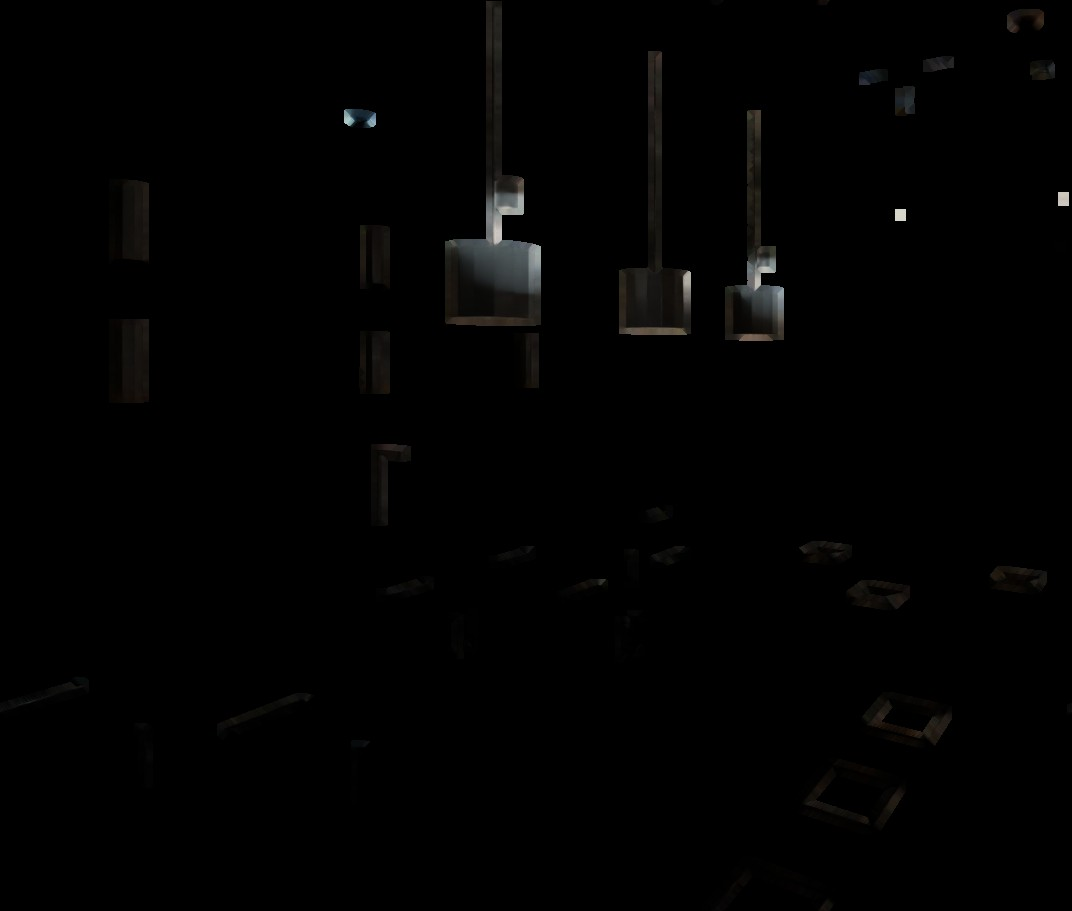
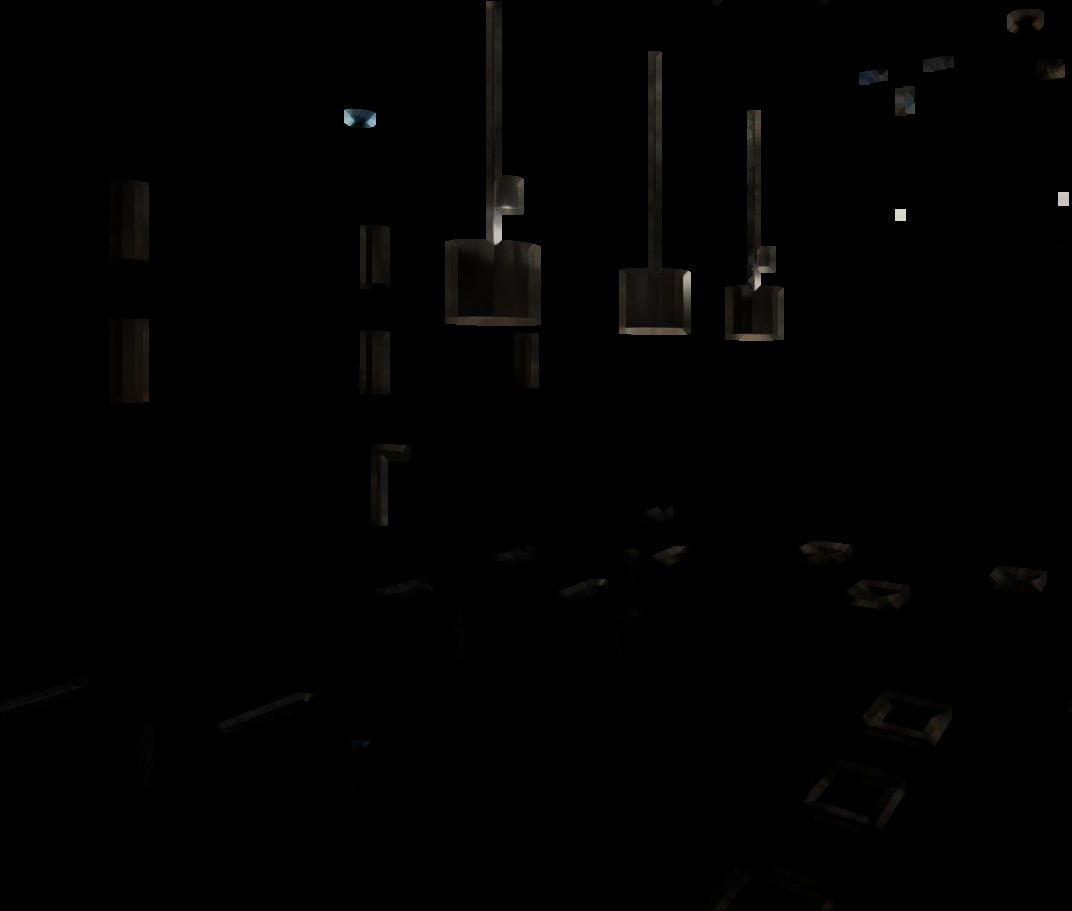
The Lookout 3500 2.0: bar
The Lookout 3500 2.0 page: a picture redone.

- Lower-level bar re-rendered: crown molding as a choice, clear glass at the sauna and gym; bar cabinets, counters, hardware and wall paint as before.

Claude-Session: https://claude.ai/code/session_01LcUu1yMTHs7qUW5E51HSvp

diff --git a/lookout/site.js b/lookout/site.js
@@ -1,1 +1,1 @@
-window.SJ={"name":"The Lookout 3500 2.0","slug":"the-lookout-3500-2","tag":"One-and-a-half-story plan","sub":"Four bedrooms and three and a half baths in 3,760 square feet, with the primary suite on the main level, a lookout room on the roof and a three-car garage.","stats":[["3,760","sq ft finished"],["4","bedrooms"],["3.5","baths"],["3","car garage"],["Main-level","primary suite"],["14 x 16","lookout room"]],"hero":{"day":"img/hero-day.jpg","night":"img/hero-dusk.jpg"},"views":[{"id":"hero","name":"Front","kind":"ext","keys":["fas","fd","fdc","g","gdc","lk","prf","pst","rof","sid","trm","win"]},{"id":"yard","name":"Back yard","kind":"ext","keys":["fas","g","lk","pl","prf","pst","rof","sid","trm","win"]},{"id":"great","name":"Living room","kind":"int","keys":["bi","clg","cr","flr","fp","hwc","idc","ids","wal","win"]},{"id":"kitchen","name":"Kitchen","kind":"int","keys":["bsp","cab","cr","ctr","flr","hwc","isl","wal","win"]},{"id":"dining","name":"Dining room","kind":"int","keys":["cr","flr","wal","win"]},{"id":"foyer","name":"Foyer","kind":"int","keys":["cr","fd","fdc","flr","hwc","sf","sr","wal","win"]},{"id":"primary","name":"Primary bedroom","kind":"int","keys":["cr","flr","wal","win"]},{"id":"bath","name":"Primary bath","kind":"int","keys":["btl","cr","ctr","hwc","shw","vcab","wal","win"],"scope":"pb"},{"id":"office","name":"Loft over the primary closet","kind":"int","keys":["cr","flr","hwc","lof","sf","sr","wal","win"]},{"id":"loft","name":"Upstairs loft","kind":"int","keys":["cr","wal","win"]},{"id":"lookout","name":"Lookout room","kind":"int","keys":["cr","flr","sf","sr","wal","win"],"veil":{"when":{"lk":"0"},"keys":["cr","flr","sf","sr","wal","win"],"note":"Shows in this picture when the lookout room is chosen"}},{"id":"bed2","name":"Bedroom 2","kind":"int","keys":["cpt","cr","uf","wal","win"]},{"id":"bed4","name":"Bedroom 4","kind":"int","keys":["cpt","cr","hwc","idc","ids","uf","wal","win"]},{"id":"bath3","name":"Bath 3","kind":"int","keys":["btl","cr","ctr","hwc","idc","ids","shw","vcab","wal"],"scope":"b3"},{"id":"lounge","name":"Lower level lounge","kind":"int","keys":["b","cab","cr","ctr","hwc","idc","ids","isl","wal"],"veil":{"when":{"b":"u"},"keys":["cab","cr","ctr","hwc","idc","ids","isl","wal"],"note":"Shows in this picture once the lower level is finished"}},{"id":"bar","name":"Lower level bar","kind":"int","keys":["b","ctr","hwc","isl","wal"],"veil":{"when":{"b":"u"},"keys":["ctr","hwc","isl","wal"],"note":"Shows in this picture once the lower level is finished"}}],"baths":[{"id":"pb","name":"Primary bath","keys":["vcab","ctr","shw","btl","hwc","wal"]},{"id":"b3","name":"Bath 3","keys":["vcab","ctr","shw","btl","hwc","wal"]}],"bathkeys":["vcab","ctr","shw","btl","hwc","wal"],"opts":[{"key":"lk","name":"Lookout room","cat":"ext","ch":[{"id":"1","name":"Lookout room on the roof (as drawn)"},{"id":"0","name":"No lookout"}],"note":"The lookout room sits on the roof, 14 x 16 ft with windows all around, reached by its own stair."},{"key":"g","name":"Garage entry","cat":"ext","ch":[{"id":"f","name":"Front entry (as drawn)"},{"id":"s","name":"Side entry, with a motor court"}],"note":"Side entry: the garage wing is re-proportioned and its doors face a motor court at the side; windows take their place on the front."},{"key":"pl","name":"Pool","cat":"ext","ch":[{"id":"n","name":"No pool (as drawn)"},{"id":"1","name":"Lap pool, 10 x 45 ft"},{"id":"2","name":"Plunge pool with a raised spa"},{"id":"3","name":"Courtyard pool with a shade pavilion"}],"note":"The pools sit behind the covered deck, on a paved terrace one step above the lawn."},{"key":"sid","name":"Siding colour","cat":"ext","ch":[{"id":"white","name":"Chantilly White","css":"#F1EFE8"},{"id":"cream","name":"Warm Cream","css":"#E6DCC6"},{"id":"greige","name":"Pebble Greige","css":"#B9B2A3"},{"id":"sage","name":"Sage","css":"#8E9A86"},{"id":"blue","name":"Harbor Blue","css":"#5E768A"},{"id":"navy","name":"Midnight Navy","css":"#28364A"},{"id":"iron","name":"Iron Gray","css":"#45484A"},{"id":"black","name":"Tricorn Black","css":"#222325"}]},{"key":"trm","name":"Trim and corner boards","cat":"ext","ch":[{"id":"white","name":"White","css":"#F4F2EC"},{"id":"cream","name":"Cream","css":"#E9E1CF"},{"id":"black","name":"Black","css":"#1E1F21"},{"id":"bronze","name":"Dark Bronze","css":"#3A322B"}]},{"key":"rof","name":"Roof shingles","cat":"ext","ch":[{"id":"char","name":"Charcoal","css":"linear-gradient(180deg,#33353A 0 50%,#45474C 50%)"},{"id":"onyx","name":"Onyx Black","css":"linear-gradient(180deg,#1D1E21 0 50%,#2A2B2F 50%)"},{"id":"wood","name":"Weathered Wood","css":"linear-gradient(180deg,#5E554B 0 50%,#7A6F62 50%)"},{"id":"slate","name":"Slate Gray","css":"linear-gradient(180deg,#4D5560 0 50%,#69717C 50%)"},{"id":"brown","name":"Barkwood","css":"linear-gradient(180deg,#41342B 0 50%,#5B4A3D 50%)"}]},{"key":"prf","name":"Porch, lookout and accent roofs","cat":"ext","ch":[{"id":"metal","name":"Black standing seam","css":"repeating-linear-gradient(90deg,#1b1c1f 0 7px,#34363a 7px 9px)"},{"id":"copper","name":"Copper standing seam","css":"repeating-linear-gradient(90deg,#9A5A34 0 7px,#c07c4c 7px 9px)"},{"id":"match","name":"Shingles to match","css":"repeating-linear-gradient(0deg,#2a2b2f 0 5px,#1d1e21 5px 10px)"}]},{"key":"fas","name":"Gutters and downspouts","cat":"ext","ch":[{"id":"white","name":"White","css":"#F2F0EA"},{"id":"black","name":"Black","css":"#1B1C1E"},{"id":"bronze","name":"Dark Bronze","css":"#3A322B"}]},{"key":"win","name":"Window frames","cat":"ext","ch":[{"id":"black","name":"Black","css":"#18191B"},{"id":"white","name":"White","css":"#F0EEE8"},{"id":"bronze","name":"Bronze","css":"#3B3129"},{"id":"clay","name":"Clay","css":"#A89F8E"}]},{"key":"fd","name":"Front door","cat":"ext","ch":[{"id":"g","name":"Double doors, glass over a panel"},{"id":"s","name":"Steel-look glass double doors"},{"id":"c","name":"Craftsman door with sidelights"},{"id":"p","name":"Panelled double doors"}],"note":"Every design comes with a transom over the door; its colour is the next choice."},{"key":"fdc","name":"Front door colour","cat":"ext","ch":[{"id":"wood","name":"Stained Walnut","css":"linear-gradient(135deg,#6A4226,#4A2C18)"},{"id":"black","name":"Black","css":"#161719"},{"id":"navy","name":"Navy","css":"#22324A"},{"id":"red","name":"Barn Red","css":"#6E1F1B"},{"id":"teal","name":"Deep Teal","css":"#1F4A4C"},{"id":"sage","name":"Sage","css":"#7C8A74"},{"id":"white","name":"White","css":"#F0EEE8"}]},{"key":"gdc","name":"Garage door colour","cat":"ext","ch":[{"id":"white","name":"White","css":"#EFEDE7"},{"id":"black","name":"Black","css":"#18191B"},{"id":"iron","name":"Iron Gray","css":"#4A4C4E"},{"id":"bronze","name":"Bronze","css":"#3B3129"},{"id":"wood","name":"Walnut","css":"linear-gradient(135deg,#6A4226,#4A2C18)"}]},{"key":"pst","name":"Porch posts and beams","cat":"ext","ch":[{"id":"cedar","name":"Stained cedar","css":"linear-gradient(135deg,#96663A,#774E28)"},{"id":"white","name":"White","css":"#EFEDE7"},{"id":"black","name":"Black","css":"#1F2022"}]},{"key":"b","name":"Lower level","cat":"int","ch":[{"id":"u","name":"Unfinished (as drawn)"},{"id":"f","name":"Finished"}]},{"key":"lof","name":"Loft over the primary closet","cat":"int","ch":[{"id":"o","name":"Home office"},{"id":"l","name":"Library"},{"id":"r","name":"Retreat"}],"note":"The room over the primary closet, up its own spiral stair: 13 x 11 ft with windows on all four sides."},{"key":"clg","name":"Living room ceiling","cat":"int","ch":[{"id":"c","name":"Coffered, painted"},{"id":"o","name":"Coffered, oak beams"},{"id":"b","name":"Timber beams"},{"id":"t","name":"Tray ceiling"}],"note":"Coffers: nine panels framed by beams, centred on the fireplace, with a ring chandelier in the middle."},{"key":"cr","name":"Crown molding","cat":"int","ch":[{"id":"n","name":"None"},{"id":"c","name":"Classic crown, 5 1/4 in."},{"id":"f","name":"Craftsman, flat with a cap"}],"note":"Runs on every wall that meets a flat ceiling: the main level, upstairs, the lookout room, the loft over the closet and the finished lower level."},{"key":"fp","name":"Fireplace","cat":"int","ch":[{"id":"stone","name":"Stacked stone (as drawn)","css":"repeating-linear-gradient(0deg,#8f887c 0 4px,#6f695f 4px 5px)"},{"id":"white","name":"White stacked stone","css":"repeating-linear-gradient(0deg,#E9E6DF 0 4px,#c4c0b7 4px 5px)"},{"id":"brick","name":"Red brick","css":"repeating-linear-gradient(0deg,#8E4A36 0 5px,#B9B2A6 5px 6px)"},{"id":"wbrick","name":"White painted brick","css":"repeating-linear-gradient(0deg,#EDEAE3 0 5px,#cfcbc2 5px 6px)"},{"id":"slate","name":"Charcoal slate tile","css":"repeating-linear-gradient(90deg,#3B3D40 0 12px,#1F2022 12px 13px)"}]},{"key":"bi","name":"Fireplace built-ins","cat":"int","ch":[{"id":"c","name":"Cabinets with oak tops (as drawn)"},{"id":"s","name":"Cabinets and shelves to the ceiling"},{"id":"n","name":"None"}],"note":"The built-ins stand on both sides of the fireplace."},{"key":"ids","name":"Interior door style","cat":"int","ch":[{"id":"s","name":"Two-panel Shaker"},{"id":"f","name":"Five-panel"},{"id":"c","name":"Craftsman, three-panel"}],"note":"8 ft doors on the main level, 6 ft 8 in. upstairs; every opening is cased, with a cap over the head."},{"key":"idc","name":"Interior doors","cat":"int","ch":[{"id":"white","name":"White","css":"#F2F0EA"},{"id":"black","name":"Black","css":"#1E1F21"},{"id":"grey","name":"Gray","css":"#8F9190"},{"id":"oak","name":"Natural oak","css":"linear-gradient(135deg,#B9905E,#A67C4C)"}]},{"key":"sf","name":"Stair treads and handrails","cat":"int","ch":[{"id":"o","name":"Natural oak (as drawn)","css":"linear-gradient(135deg,#B9905E,#A67C4C)"},{"id":"d","name":"Walnut","css":"linear-gradient(135deg,#6A4A32,#573B27)"},{"id":"k","name":"Ebony","css":"linear-gradient(135deg,#30261F,#211A15)"},{"id":"w","name":"Whitewashed oak","css":"linear-gradient(135deg,#D9CDB8,#C9BCA4)"}]},{"key":"sr","name":"Stair balusters","cat":"int","ch":[{"id":"k","name":"Black iron","css":"#141414"},{"id":"w","name":"White","css":"#EFEDE7"},{"id":"b","name":"Satin brass","css":"#B08A4A"}]},{"key":"flr","name":"Hardwood flooring","cat":"int","ch":[{"id":"oak","name":"Natural Oak Plank","css":"repeating-linear-gradient(90deg,#B08F68 0 9px,#9C7B55 9px 18px)"},{"id":"honey","name":"Honey Oak","css":"repeating-linear-gradient(90deg,#B8834A 0 9px,#A2703C 9px 18px)"},{"id":"grey","name":"Driftwood Gray","css":"repeating-linear-gradient(90deg,#9A9288 0 9px,#857D73 9px 18px)"},{"id":"walnut","name":"Walnut","css":"repeating-linear-gradient(90deg,#6A4A32 0 9px,#573B27 9px 18px)"},{"id":"white","name":"Whitewashed","css":"repeating-linear-gradient(90deg,#CFC3B0 0 9px,#BFB29E 9px 18px)"}]},{"key":"uf","name":"Bedroom flooring","cat":"int","ch":[{"id":"c","name":"Carpet (as shown)","css":"repeating-linear-gradient(45deg,#C9C0AE 0 3px,#BDB4A2 3px 6px)"},{"id":"oak","name":"Natural Oak Plank","css":"repeating-linear-gradient(90deg,#B08F68 0 9px,#9C7B55 9px 18px)"},{"id":"honey","name":"Honey Oak","css":"repeating-linear-gradient(90deg,#B8834A 0 9px,#A2703C 9px 18px)"},{"id":"grey","name":"Driftwood Gray","css":"repeating-linear-gradient(90deg,#9A9288 0 9px,#857D73 9px 18px)"},{"id":"walnut","name":"Walnut","css":"repeating-linear-gradient(90deg,#6A4A32 0 9px,#573B27 9px 18px)"},{"id":"white","name":"Whitewashed","css":"repeating-linear-gradient(90deg,#CFC3B0 0 9px,#BFB29E 9px 18px)"}]},{"key":"cpt","name":"Carpet","cat":"int","ch":[{"id":"oat","name":"Oatmeal","css":"#C9C0AE"},{"id":"grey","name":"Silver","css":"#B5B3AE"},{"id":"taupe","name":"Taupe","css":"#A39685"}],"only":{"uf":"c"}},{"key":"wal","name":"Wall paint","cat":"int","ch":[{"id":"alab","name":"Alabaster","css":"#EDEAE0"},{"id":"grey","name":"Agreeable Gray","css":"#D1CBC1"},{"id":"greige","name":"Accessible Beige","css":"#D1C7B8"},{"id":"blue","name":"Sea Salt","css":"#CDD2CA"},{"id":"white","name":"Pure White","css":"#F2F0EB"}],"bname":"Wall paint"},{"key":"cab","name":"Kitchen cabinets","cat":"int","ch":[{"id":"white","name":"White Shaker","css":"#EFEDE7"},{"id":"grey","name":"Dove Gray","css":"#A9ABA8"},{"id":"sage","name":"Sage","css":"#8A967F"},{"id":"navy","name":"Navy","css":"#27364B"},{"id":"black","name":"Black","css":"#1F2022"},{"id":"oak","name":"Natural Oak","css":"linear-gradient(135deg,#B9905E,#A67C4C)"}]},{"key":"isl","name":"Island and range hood","cat":"int","ch":[{"id":"navy","name":"Navy","css":"#27364B"},{"id":"white","name":"White","css":"#EFEDE7"},{"id":"oak","name":"Natural Oak","css":"linear-gradient(135deg,#B9905E,#A67C4C)"},{"id":"black","name":"Black","css":"#1F2022"},{"id":"sage","name":"Sage","css":"#8A967F"}]},{"key":"ctr","name":"Countertops","cat":"int","ch":[{"id":"white","name":"White Quartz","css":"#EEEBE4"},{"id":"marble","name":"Marble-look Quartz","css":"linear-gradient(120deg,#ECE9E3 0 40%,#b9b6ae 44%,#ECE9E3 48% 70%,#c9c6be 74%,#ECE9E3 78%)"},{"id":"black","name":"Black Granite","css":"linear-gradient(120deg,#17181A 0 55%,#4a4a48 60%,#17181A 65%)"},{"id":"grey","name":"Concrete Gray","css":"#9A9894"}],"bname":"Vanity tops"},{"key":"bsp","name":"Backsplash","cat":"int","ch":[{"id":"slab","name":"Marble slab","css":"linear-gradient(120deg,#ECE9E3 0 40%,#b9b6ae 44%,#ECE9E3 48% 70%,#c9c6be 74%,#ECE9E3 78%)"},{"id":"subway","name":"White Subway","css":"repeating-linear-gradient(0deg,#F0EEE8 0 8px,#cfccc4 8px 9px)"},{"id":"green","name":"Sage Zellige","css":"repeating-linear-gradient(0deg,#8FA08A 0 8px,#6f806a 8px 9px)"},{"id":"grey","name":"Gray Subway","css":"repeating-linear-gradient(0deg,#B4B6B4 0 8px,#8f918f 8px 9px)"},{"id":"black","name":"Black Subway","css":"repeating-linear-gradient(0deg,#232426 0 8px,#6A6A68 8px 9px)"}]},{"key":"vcab","name":"Bathroom vanities","cat":"int","ch":[{"id":"oak","name":"Natural oak","css":"linear-gradient(135deg,#B9905E,#A67C4C)"},{"id":"white","name":"White","css":"#EFEDE7"},{"id":"navy","name":"Navy","css":"#27364B"},{"id":"sage","name":"Sage","css":"#8A967F"},{"id":"black","name":"Black","css":"#1F2022"},{"id":"walnut","name":"Walnut","css":"linear-gradient(135deg,#6A4A32,#573B27)"}],"bname":"Vanity cabinets","bathonly":1},{"key":"shw","name":"Shower walls","cat":"int","ch":[{"id":"slab","name":"Marble slab","css":"linear-gradient(120deg,#ECE9E3 0 40%,#b9b6ae 44%,#ECE9E3 48% 70%,#c9c6be 74%,#ECE9E3 78%)"},{"id":"subway","name":"White subway tile","css":"repeating-linear-gradient(0deg,#F0EEE8 0 8px,#cfccc4 8px 9px)"},{"id":"zel","name":"Sage zellige","css":"repeating-linear-gradient(0deg,#8FA08A 0 8px,#6f806a 8px 9px)"},{"id":"slate","name":"Charcoal slate","css":"repeating-linear-gradient(90deg,#3B3D40 0 14px,#1F2022 14px 15px)"},{"id":"trav","name":"Warm limestone","css":"repeating-linear-gradient(90deg,#D9CDB8 0 14px,#B8AC96 14px 15px)"}],"note":"The primary bath's wet room, and the wall behind the tub in each upstairs bath.","bname":"Shower walls","bathonly":1},{"key":"btl","name":"Bath floor tile","cat":"int","ch":[{"id":"w","name":"White porcelain","css":"repeating-linear-gradient(90deg,#EDEBE6 0 12px,#B9B6AE 12px 13px)"},{"id":"g","name":"Warm gray","css":"repeating-linear-gradient(90deg,#B9B2A6 0 12px,#8C867B 12px 13px)"},{"id":"m","name":"Marble look","css":"linear-gradient(120deg,#ECEAE6 0 40%,#c4c1bb 46%,#ECEAE6 52%)"},{"id":"c","name":"Charcoal slate","css":"repeating-linear-gradient(90deg,#4A4C4F 0 12px,#2C2D2F 12px 13px)"}],"bname":"Floor tile","bathonly":1},{"key":"hwc","name":"Hardware and faucets","cat":"int","ch":[{"id":"brass","name":"Satin Brass","css":"#B08A4A"},{"id":"black","name":"Matte Black","css":"#101011"},{"id":"nickel","name":"Satin Nickel","css":"#9A9A98"}],"bname":"Faucets and hardware"}],"defaults":{"sid":"white","trm":"white","fas":"white","win":"black","fdc":"wood","gdc":"white","rof":"char","prf":"metal","lk":"1","g":"f","b":"u","pl":"n","fd":"g","pst":"cedar","clg":"c","cr":"n","fp":"stone","bi":"c","sf":"o","sr":"k","idc":"white","ids":"s","lof":"o","hwc":"brass","wal":"alab","cab":"white","isl":"navy","ctr":"marble","bsp":"slab","vcab":"oak","shw":"slab","btl":"w","flr":"oak","cpt":"oat","uf":"c"},"gallery":[],"looks":[{"cat":"ext","name":"Modern farmhouse (as drawn)","set":{}},{"cat":"ext","name":"Midnight and copper","set":{"sid":"navy","prf":"copper","gdc":"wood","rof":"onyx"}},{"cat":"ext","name":"Sage cottage","set":{"sid":"sage","trm":"cream","fas":"bronze","win":"white","rof":"wood","fdc":"navy","fd":"c"}},{"cat":"ext","name":"Charcoal modern","set":{"sid":"iron","trm":"black","fas":"black","rof":"onyx","gdc":"black","fdc":"black","fd":"s"}},{"cat":"ext","name":"Coastal blue","set":{"sid":"blue","win":"white","rof":"slate","fdc":"navy"}},{"cat":"ext","name":"Warm greige","set":{"sid":"greige","trm":"cream","fas":"bronze","win":"bronze","rof":"brown","gdc":"bronze","fd":"p"}},{"cat":"ext","name":"Black barn","set":{"sid":"black","trm":"black","fas":"black","gdc":"wood","prf":"copper","fd":"p"}},{"cat":"int","name":"Light and warm (as shown)","set":{}},{"cat":"int","name":"Warm oak","set":{"isl":"oak","ctr":"marble","flr":"honey","wal":"greige","clg":"o","cr":"f","ids":"c"}},{"cat":"int","name":"Deep and moody","set":{"cab":"navy","bsp":"grey","flr":"walnut","wal":"grey","idc":"black","clg":"b","cr":"c","vcab":"navy","shw":"slate","lof":"l"}},{"cat":"int","name":"Scandinavian","set":{"isl":"white","flr":"white","wal":"white","hwc":"black","clg":"t","ids":"f","vcab":"white","shw":"subway"}},{"cat":"int","name":"Sage kitchen","set":{"cab":"sage","isl":"oak","bsp":"green","vcab":"sage","shw":"zel","lof":"r"}},{"cat":"int","name":"Black and white","set":{"cab":"black","isl":"white","ctr":"marble","flr":"grey","wal":"white","hwc":"nickel","idc":"black","ids":"c","cr":"c","vcab":"black","shw":"subway"}},{"cat":"int","name":"Everything added","set":{"cr":"c","clg":"o","bi":"s","ids":"c","lof":"l","b":"f"}}],"plan_lead":"Each level seen from straight above, with everything over it taken away. Furniture is illustrative.","plans":[{"id":"main_f","name":"Main level","note":"2,144 sq ft: living, dining and kitchen in the core, the primary suite in its own wing, a three-car garage","svg":"<img src=\"img/plan-main_f.jpg\" alt=\"Main level, seen from above with the levels over it taken away\" style=\"width:100%;height:auto;display:block;border-radius:10px\">"},{"id":"main_s","name":"Main level, side-entry garage","note":"The same rooms; the garage wing is re-proportioned and entered from a motor court at the side","svg":"<img src=\"img/plan-main_s.jpg\" alt=\"Main level, side-entry garage, seen from above with the levels over it taken away\" style=\"width:100%;height:auto;display:block;border-radius:10px\">"},{"id":"upper","name":"Upstairs","note":"1,224 sq ft: three bedrooms, two baths, the loft and a laundry; the office loft sits over the primary closet","svg":"<img src=\"img/plan-upper.jpg\" alt=\"Upstairs, seen from above with the levels over it taken away\" style=\"width:100%;height:auto;display:block;border-radius:10px\">"},{"id":"look","name":"Lookout","note":"224 sq ft: the lookout room on the roof, windows on all four sides","svg":"<img src=\"img/plan-look.jpg\" alt=\"Lookout, seen from above with the levels over it taken away\" style=\"width:100%;height:auto;display:block;border-radius:10px\">"},{"id":"bsmt_u","name":"Lower level","note":"Unfinished, as drawn: a safe room, mechanical space and rough-ins for a bath and a wet bar","svg":"<img src=\"img/plan-bsmt_u.jpg\" alt=\"Lower level, seen from above with the levels over it taken away\" style=\"width:100%;height:auto;display:block;border-radius:10px\">"},{"id":"bsmt_f","name":"Lower level, finished","note":"Lounge, bar, gym, bath and sauna, with the safe room, storage and mechanical space","svg":"<img src=\"img/plan-bsmt_f.jpg\" alt=\"Lower level, finished, seen from above with the levels over it taken away\" style=\"width:100%;height:auto;display:block;border-radius:10px\">"}],"lot":null,"specs":[{"h":"The home","items":["3,760 sq ft finished: 2,144 on the main level, 1,224 upstairs, a 168 sq ft office loft and the 224 sq ft lookout room","Four bedrooms and three and a half baths; the primary suite is on the main level in its own wing","The primary suite: a 20 x 20 bedroom with a door to the covered deck, a spa bath and a walk-in closet, about 800 sq ft in all","Three-car garage in a wing of its own, front entry or side entry","Core 34 x 36 ft, two stories; the garage wing 32 x 24 ft and the primary wing 20 x 46 ft are one story"]},{"h":"Rooms","items":["Main level: foyer, dining room, living room with a fireplace and a 12 ft slider to the covered deck, kitchen with a prep kitchen and pantry, mudroom, powder room, laundry","Upstairs: three bedrooms, two baths, a loft, a second laundry","An office loft over the primary closet, reached by its own spiral stair","The lookout room: 14 x 16 ft on the roof, windows on all four sides"]},{"h":"Heights and roof","items":["10 ft ceilings on the main level","Gable roofs with standing-seam accents over the porch, the lookout and the garage doors","Covered 16 x 14 ft deck off the living room; covered front porch on timber posts"]},{"h":"Inside finish","items":["Living room ceiling: nine coffers centred on the fireplace with a ring chandelier, painted or in oak; timber beams or a tray ceiling instead","Doors: 8 ft on the main level and 6 ft 8 in. upstairs, in three panel styles, every opening cased with a cap over the head","Crown molding as a choice on every level, classic or craftsman","Front door in four designs under a transom: glass over a panel, steel-look glass, craftsman with sidelights, or panelled","Baths: vanity cabinets and shower walls chosen apart from the kitchen","The loft over the primary closet as a home office, a library or a retreat"]},{"h":"Outside","items":["Board-and-batten siding with trim boards at corners and openings","Black-framed windows with grids","A full basement under the core"]}],"foot":["The pictures and the design studio on this page are computer renderings of a 3D model of the plan. Furniture, planting and the land around the house are illustrative; the plan is not drawn on a particular lot.","Finishes offered in the design studio are examples for planning, not a builder's price list. A builder's plan set and contract govern."],"tour":null,"model3d":{"src":"3d/","poster":"img/hero-day.jpg"}};
+window.SJ={"name":"The Lookout 3500 2.0","slug":"the-lookout-3500-2","tag":"One-and-a-half-story plan","sub":"Four bedrooms and three and a half baths in 3,760 square feet, with the primary suite on the main level, a lookout room on the roof and a three-car garage.","stats":[["3,760","sq ft finished"],["4","bedrooms"],["3.5","baths"],["3","car garage"],["Main-level","primary suite"],["14 x 16","lookout room"]],"hero":{"day":"img/hero-day.jpg","night":"img/hero-dusk.jpg"},"views":[{"id":"hero","name":"Front","kind":"ext","keys":["fas","fd","fdc","g","gdc","lk","prf","pst","rof","sid","trm","win"]},{"id":"yard","name":"Back yard","kind":"ext","keys":["fas","g","lk","pl","prf","pst","rof","sid","trm","win"]},{"id":"great","name":"Living room","kind":"int","keys":["bi","clg","cr","flr","fp","hwc","idc","ids","wal","win"]},{"id":"kitchen","name":"Kitchen","kind":"int","keys":["bsp","cab","cr","ctr","flr","hwc","isl","wal","win"]},{"id":"dining","name":"Dining room","kind":"int","keys":["cr","flr","wal","win"]},{"id":"foyer","name":"Foyer","kind":"int","keys":["cr","fd","fdc","flr","hwc","sf","sr","wal","win"]},{"id":"primary","name":"Primary bedroom","kind":"int","keys":["cr","flr","wal","win"]},{"id":"bath","name":"Primary bath","kind":"int","keys":["btl","cr","ctr","hwc","shw","vcab","wal","win"],"scope":"pb"},{"id":"office","name":"Loft over the primary closet","kind":"int","keys":["cr","flr","hwc","lof","sf","sr","wal","win"]},{"id":"loft","name":"Upstairs loft","kind":"int","keys":["cr","wal","win"]},{"id":"lookout","name":"Lookout room","kind":"int","keys":["cr","flr","sf","sr","wal","win"],"veil":{"when":{"lk":"0"},"keys":["cr","flr","sf","sr","wal","win"],"note":"Shows in this picture when the lookout room is chosen"}},{"id":"bed2","name":"Bedroom 2","kind":"int","keys":["cpt","cr","uf","wal","win"]},{"id":"bed4","name":"Bedroom 4","kind":"int","keys":["cpt","cr","hwc","idc","ids","uf","wal","win"]},{"id":"bath3","name":"Bath 3","kind":"int","keys":["btl","cr","ctr","hwc","idc","ids","shw","vcab","wal"],"scope":"b3"},{"id":"lounge","name":"Lower level lounge","kind":"int","keys":["b","cab","cr","ctr","hwc","idc","ids","isl","wal"],"veil":{"when":{"b":"u"},"keys":["cab","cr","ctr","hwc","idc","ids","isl","wal"],"note":"Shows in this picture once the lower level is finished"}},{"id":"bar","name":"Lower level bar","kind":"int","keys":["b","cr","ctr","hwc","isl","wal"],"veil":{"when":{"b":"u"},"keys":["cr","ctr","hwc","isl","wal"],"note":"Shows in this picture once the lower level is finished"}}],"baths":[{"id":"pb","name":"Primary bath","keys":["vcab","ctr","shw","btl","hwc","wal"]},{"id":"b3","name":"Bath 3","keys":["vcab","ctr","shw","btl","hwc","wal"]}],"bathkeys":["vcab","ctr","shw","btl","hwc","wal"],"opts":[{"key":"lk","name":"Lookout room","cat":"ext","ch":[{"id":"1","name":"Lookout room on the roof (as drawn)"},{"id":"0","name":"No lookout"}],"note":"The lookout room sits on the roof, 14 x 16 ft with windows all around, reached by its own stair."},{"key":"g","name":"Garage entry","cat":"ext","ch":[{"id":"f","name":"Front entry (as drawn)"},{"id":"s","name":"Side entry, with a motor court"}],"note":"Side entry: the garage wing is re-proportioned and its doors face a motor court at the side; windows take their place on the front."},{"key":"pl","name":"Pool","cat":"ext","ch":[{"id":"n","name":"No pool (as drawn)"},{"id":"1","name":"Lap pool, 10 x 45 ft"},{"id":"2","name":"Plunge pool with a raised spa"},{"id":"3","name":"Courtyard pool with a shade pavilion"}],"note":"The pools sit behind the covered deck, on a paved terrace one step above the lawn."},{"key":"sid","name":"Siding colour","cat":"ext","ch":[{"id":"white","name":"Chantilly White","css":"#F1EFE8"},{"id":"cream","name":"Warm Cream","css":"#E6DCC6"},{"id":"greige","name":"Pebble Greige","css":"#B9B2A3"},{"id":"sage","name":"Sage","css":"#8E9A86"},{"id":"blue","name":"Harbor Blue","css":"#5E768A"},{"id":"navy","name":"Midnight Navy","css":"#28364A"},{"id":"iron","name":"Iron Gray","css":"#45484A"},{"id":"black","name":"Tricorn Black","css":"#222325"}]},{"key":"trm","name":"Trim and corner boards","cat":"ext","ch":[{"id":"white","name":"White","css":"#F4F2EC"},{"id":"cream","name":"Cream","css":"#E9E1CF"},{"id":"black","name":"Black","css":"#1E1F21"},{"id":"bronze","name":"Dark Bronze","css":"#3A322B"}]},{"key":"rof","name":"Roof shingles","cat":"ext","ch":[{"id":"char","name":"Charcoal","css":"linear-gradient(180deg,#33353A 0 50%,#45474C 50%)"},{"id":"onyx","name":"Onyx Black","css":"linear-gradient(180deg,#1D1E21 0 50%,#2A2B2F 50%)"},{"id":"wood","name":"Weathered Wood","css":"linear-gradient(180deg,#5E554B 0 50%,#7A6F62 50%)"},{"id":"slate","name":"Slate Gray","css":"linear-gradient(180deg,#4D5560 0 50%,#69717C 50%)"},{"id":"brown","name":"Barkwood","css":"linear-gradient(180deg,#41342B 0 50%,#5B4A3D 50%)"}]},{"key":"prf","name":"Porch, lookout and accent roofs","cat":"ext","ch":[{"id":"metal","name":"Black standing seam","css":"repeating-linear-gradient(90deg,#1b1c1f 0 7px,#34363a 7px 9px)"},{"id":"copper","name":"Copper standing seam","css":"repeating-linear-gradient(90deg,#9A5A34 0 7px,#c07c4c 7px 9px)"},{"id":"match","name":"Shingles to match","css":"repeating-linear-gradient(0deg,#2a2b2f 0 5px,#1d1e21 5px 10px)"}]},{"key":"fas","name":"Gutters and downspouts","cat":"ext","ch":[{"id":"white","name":"White","css":"#F2F0EA"},{"id":"black","name":"Black","css":"#1B1C1E"},{"id":"bronze","name":"Dark Bronze","css":"#3A322B"}]},{"key":"win","name":"Window frames","cat":"ext","ch":[{"id":"black","name":"Black","css":"#18191B"},{"id":"white","name":"White","css":"#F0EEE8"},{"id":"bronze","name":"Bronze","css":"#3B3129"},{"id":"clay","name":"Clay","css":"#A89F8E"}]},{"key":"fd","name":"Front door","cat":"ext","ch":[{"id":"g","name":"Double doors, glass over a panel"},{"id":"s","name":"Steel-look glass double doors"},{"id":"c","name":"Craftsman door with sidelights"},{"id":"p","name":"Panelled double doors"}],"note":"Every design comes with a transom over the door; its colour is the next choice."},{"key":"fdc","name":"Front door colour","cat":"ext","ch":[{"id":"wood","name":"Stained Walnut","css":"linear-gradient(135deg,#6A4226,#4A2C18)"},{"id":"black","name":"Black","css":"#161719"},{"id":"navy","name":"Navy","css":"#22324A"},{"id":"red","name":"Barn Red","css":"#6E1F1B"},{"id":"teal","name":"Deep Teal","css":"#1F4A4C"},{"id":"sage","name":"Sage","css":"#7C8A74"},{"id":"white","name":"White","css":"#F0EEE8"}]},{"key":"gdc","name":"Garage door colour","cat":"ext","ch":[{"id":"white","name":"White","css":"#EFEDE7"},{"id":"black","name":"Black","css":"#18191B"},{"id":"iron","name":"Iron Gray","css":"#4A4C4E"},{"id":"bronze","name":"Bronze","css":"#3B3129"},{"id":"wood","name":"Walnut","css":"linear-gradient(135deg,#6A4226,#4A2C18)"}]},{"key":"pst","name":"Porch posts and beams","cat":"ext","ch":[{"id":"cedar","name":"Stained cedar","css":"linear-gradient(135deg,#96663A,#774E28)"},{"id":"white","name":"White","css":"#EFEDE7"},{"id":"black","name":"Black","css":"#1F2022"}]},{"key":"b","name":"Lower level","cat":"int","ch":[{"id":"u","name":"Unfinished (as drawn)"},{"id":"f","name":"Finished"}]},{"key":"lof","name":"Loft over the primary closet","cat":"int","ch":[{"id":"o","name":"Home office"},{"id":"l","name":"Library"},{"id":"r","name":"Retreat"}],"note":"The room over the primary closet, up its own spiral stair: 13 x 11 ft with windows on all four sides."},{"key":"clg","name":"Living room ceiling","cat":"int","ch":[{"id":"c","name":"Coffered, painted"},{"id":"o","name":"Coffered, oak beams"},{"id":"b","name":"Timber beams"},{"id":"t","name":"Tray ceiling"}],"note":"Coffers: nine panels framed by beams, centred on the fireplace, with a ring chandelier in the middle."},{"key":"cr","name":"Crown molding","cat":"int","ch":[{"id":"n","name":"None"},{"id":"c","name":"Classic crown, 5 1/4 in."},{"id":"f","name":"Craftsman, flat with a cap"}],"note":"Runs on every wall that meets a flat ceiling: the main level, upstairs, the lookout room, the loft over the closet and the finished lower level."},{"key":"fp","name":"Fireplace","cat":"int","ch":[{"id":"stone","name":"Stacked stone (as drawn)","css":"repeating-linear-gradient(0deg,#8f887c 0 4px,#6f695f 4px 5px)"},{"id":"white","name":"White stacked stone","css":"repeating-linear-gradient(0deg,#E9E6DF 0 4px,#c4c0b7 4px 5px)"},{"id":"brick","name":"Red brick","css":"repeating-linear-gradient(0deg,#8E4A36 0 5px,#B9B2A6 5px 6px)"},{"id":"wbrick","name":"White painted brick","css":"repeating-linear-gradient(0deg,#EDEAE3 0 5px,#cfcbc2 5px 6px)"},{"id":"slate","name":"Charcoal slate tile","css":"repeating-linear-gradient(90deg,#3B3D40 0 12px,#1F2022 12px 13px)"}]},{"key":"bi","name":"Fireplace built-ins","cat":"int","ch":[{"id":"c","name":"Cabinets with oak tops (as drawn)"},{"id":"s","name":"Cabinets and shelves to the ceiling"},{"id":"n","name":"None"}],"note":"The built-ins stand on both sides of the fireplace."},{"key":"ids","name":"Interior door style","cat":"int","ch":[{"id":"s","name":"Two-panel Shaker"},{"id":"f","name":"Five-panel"},{"id":"c","name":"Craftsman, three-panel"}],"note":"8 ft doors on the main level, 6 ft 8 in. upstairs; every opening is cased, with a cap over the head."},{"key":"idc","name":"Interior doors","cat":"int","ch":[{"id":"white","name":"White","css":"#F2F0EA"},{"id":"black","name":"Black","css":"#1E1F21"},{"id":"grey","name":"Gray","css":"#8F9190"},{"id":"oak","name":"Natural oak","css":"linear-gradient(135deg,#B9905E,#A67C4C)"}]},{"key":"sf","name":"Stair treads and handrails","cat":"int","ch":[{"id":"o","name":"Natural oak (as drawn)","css":"linear-gradient(135deg,#B9905E,#A67C4C)"},{"id":"d","name":"Walnut","css":"linear-gradient(135deg,#6A4A32,#573B27)"},{"id":"k","name":"Ebony","css":"linear-gradient(135deg,#30261F,#211A15)"},{"id":"w","name":"Whitewashed oak","css":"linear-gradient(135deg,#D9CDB8,#C9BCA4)"}]},{"key":"sr","name":"Stair balusters","cat":"int","ch":[{"id":"k","name":"Black iron","css":"#141414"},{"id":"w","name":"White","css":"#EFEDE7"},{"id":"b","name":"Satin brass","css":"#B08A4A"}]},{"key":"flr","name":"Hardwood flooring","cat":"int","ch":[{"id":"oak","name":"Natural Oak Plank","css":"repeating-linear-gradient(90deg,#B08F68 0 9px,#9C7B55 9px 18px)"},{"id":"honey","name":"Honey Oak","css":"repeating-linear-gradient(90deg,#B8834A 0 9px,#A2703C 9px 18px)"},{"id":"grey","name":"Driftwood Gray","css":"repeating-linear-gradient(90deg,#9A9288 0 9px,#857D73 9px 18px)"},{"id":"walnut","name":"Walnut","css":"repeating-linear-gradient(90deg,#6A4A32 0 9px,#573B27 9px 18px)"},{"id":"white","name":"Whitewashed","css":"repeating-linear-gradient(90deg,#CFC3B0 0 9px,#BFB29E 9px 18px)"}]},{"key":"uf","name":"Bedroom flooring","cat":"int","ch":[{"id":"c","name":"Carpet (as shown)","css":"repeating-linear-gradient(45deg,#C9C0AE 0 3px,#BDB4A2 3px 6px)"},{"id":"oak","name":"Natural Oak Plank","css":"repeating-linear-gradient(90deg,#B08F68 0 9px,#9C7B55 9px 18px)"},{"id":"honey","name":"Honey Oak","css":"repeating-linear-gradient(90deg,#B8834A 0 9px,#A2703C 9px 18px)"},{"id":"grey","name":"Driftwood Gray","css":"repeating-linear-gradient(90deg,#9A9288 0 9px,#857D73 9px 18px)"},{"id":"walnut","name":"Walnut","css":"repeating-linear-gradient(90deg,#6A4A32 0 9px,#573B27 9px 18px)"},{"id":"white","name":"Whitewashed","css":"repeating-linear-gradient(90deg,#CFC3B0 0 9px,#BFB29E 9px 18px)"}]},{"key":"cpt","name":"Carpet","cat":"int","ch":[{"id":"oat","name":"Oatmeal","css":"#C9C0AE"},{"id":"grey","name":"Silver","css":"#B5B3AE"},{"id":"taupe","name":"Taupe","css":"#A39685"}],"only":{"uf":"c"}},{"key":"wal","name":"Wall paint","cat":"int","ch":[{"id":"alab","name":"Alabaster","css":"#EDEAE0"},{"id":"grey","name":"Agreeable Gray","css":"#D1CBC1"},{"id":"greige","name":"Accessible Beige","css":"#D1C7B8"},{"id":"blue","name":"Sea Salt","css":"#CDD2CA"},{"id":"white","name":"Pure White","css":"#F2F0EB"}],"bname":"Wall paint"},{"key":"cab","name":"Kitchen cabinets","cat":"int","ch":[{"id":"white","name":"White Shaker","css":"#EFEDE7"},{"id":"grey","name":"Dove Gray","css":"#A9ABA8"},{"id":"sage","name":"Sage","css":"#8A967F"},{"id":"navy","name":"Navy","css":"#27364B"},{"id":"black","name":"Black","css":"#1F2022"},{"id":"oak","name":"Natural Oak","css":"linear-gradient(135deg,#B9905E,#A67C4C)"}]},{"key":"isl","name":"Island and range hood","cat":"int","ch":[{"id":"navy","name":"Navy","css":"#27364B"},{"id":"white","name":"White","css":"#EFEDE7"},{"id":"oak","name":"Natural Oak","css":"linear-gradient(135deg,#B9905E,#A67C4C)"},{"id":"black","name":"Black","css":"#1F2022"},{"id":"sage","name":"Sage","css":"#8A967F"}]},{"key":"ctr","name":"Countertops","cat":"int","ch":[{"id":"white","name":"White Quartz","css":"#EEEBE4"},{"id":"marble","name":"Marble-look Quartz","css":"linear-gradient(120deg,#ECE9E3 0 40%,#b9b6ae 44%,#ECE9E3 48% 70%,#c9c6be 74%,#ECE9E3 78%)"},{"id":"black","name":"Black Granite","css":"linear-gradient(120deg,#17181A 0 55%,#4a4a48 60%,#17181A 65%)"},{"id":"grey","name":"Concrete Gray","css":"#9A9894"}],"bname":"Vanity tops"},{"key":"bsp","name":"Backsplash","cat":"int","ch":[{"id":"slab","name":"Marble slab","css":"linear-gradient(120deg,#ECE9E3 0 40%,#b9b6ae 44%,#ECE9E3 48% 70%,#c9c6be 74%,#ECE9E3 78%)"},{"id":"subway","name":"White Subway","css":"repeating-linear-gradient(0deg,#F0EEE8 0 8px,#cfccc4 8px 9px)"},{"id":"green","name":"Sage Zellige","css":"repeating-linear-gradient(0deg,#8FA08A 0 8px,#6f806a 8px 9px)"},{"id":"grey","name":"Gray Subway","css":"repeating-linear-gradient(0deg,#B4B6B4 0 8px,#8f918f 8px 9px)"},{"id":"black","name":"Black Subway","css":"repeating-linear-gradient(0deg,#232426 0 8px,#6A6A68 8px 9px)"}]},{"key":"vcab","name":"Bathroom vanities","cat":"int","ch":[{"id":"oak","name":"Natural oak","css":"linear-gradient(135deg,#B9905E,#A67C4C)"},{"id":"white","name":"White","css":"#EFEDE7"},{"id":"navy","name":"Navy","css":"#27364B"},{"id":"sage","name":"Sage","css":"#8A967F"},{"id":"black","name":"Black","css":"#1F2022"},{"id":"walnut","name":"Walnut","css":"linear-gradient(135deg,#6A4A32,#573B27)"}],"bname":"Vanity cabinets","bathonly":1},{"key":"shw","name":"Shower walls","cat":"int","ch":[{"id":"slab","name":"Marble slab","css":"linear-gradient(120deg,#ECE9E3 0 40%,#b9b6ae 44%,#ECE9E3 48% 70%,#c9c6be 74%,#ECE9E3 78%)"},{"id":"subway","name":"White subway tile","css":"repeating-linear-gradient(0deg,#F0EEE8 0 8px,#cfccc4 8px 9px)"},{"id":"zel","name":"Sage zellige","css":"repeating-linear-gradient(0deg,#8FA08A 0 8px,#6f806a 8px 9px)"},{"id":"slate","name":"Charcoal slate","css":"repeating-linear-gradient(90deg,#3B3D40 0 14px,#1F2022 14px 15px)"},{"id":"trav","name":"Warm limestone","css":"repeating-linear-gradient(90deg,#D9CDB8 0 14px,#B8AC96 14px 15px)"}],"note":"The primary bath's wet room, and the wall behind the tub in each upstairs bath.","bname":"Shower walls","bathonly":1},{"key":"btl","name":"Bath floor tile","cat":"int","ch":[{"id":"w","name":"White porcelain","css":"repeating-linear-gradient(90deg,#EDEBE6 0 12px,#B9B6AE 12px 13px)"},{"id":"g","name":"Warm gray","css":"repeating-linear-gradient(90deg,#B9B2A6 0 12px,#8C867B 12px 13px)"},{"id":"m","name":"Marble look","css":"linear-gradient(120deg,#ECEAE6 0 40%,#c4c1bb 46%,#ECEAE6 52%)"},{"id":"c","name":"Charcoal slate","css":"repeating-linear-gradient(90deg,#4A4C4F 0 12px,#2C2D2F 12px 13px)"}],"bname":"Floor tile","bathonly":1},{"key":"hwc","name":"Hardware and faucets","cat":"int","ch":[{"id":"brass","name":"Satin Brass","css":"#B08A4A"},{"id":"black","name":"Matte Black","css":"#101011"},{"id":"nickel","name":"Satin Nickel","css":"#9A9A98"}],"bname":"Faucets and hardware"}],"defaults":{"sid":"white","trm":"white","fas":"white","win":"black","fdc":"wood","gdc":"white","rof":"char","prf":"metal","lk":"1","g":"f","b":"u","pl":"n","fd":"g","pst":"cedar","clg":"c","cr":"n","fp":"stone","bi":"c","sf":"o","sr":"k","idc":"white","ids":"s","lof":"o","hwc":"brass","wal":"alab","cab":"white","isl":"navy","ctr":"marble","bsp":"slab","vcab":"oak","shw":"slab","btl":"w","flr":"oak","cpt":"oat","uf":"c"},"gallery":[],"looks":[{"cat":"ext","name":"Modern farmhouse (as drawn)","set":{}},{"cat":"ext","name":"Midnight and copper","set":{"sid":"navy","prf":"copper","gdc":"wood","rof":"onyx"}},{"cat":"ext","name":"Sage cottage","set":{"sid":"sage","trm":"cream","fas":"bronze","win":"white","rof":"wood","fdc":"navy","fd":"c"}},{"cat":"ext","name":"Charcoal modern","set":{"sid":"iron","trm":"black","fas":"black","rof":"onyx","gdc":"black","fdc":"black","fd":"s"}},{"cat":"ext","name":"Coastal blue","set":{"sid":"blue","win":"white","rof":"slate","fdc":"navy"}},{"cat":"ext","name":"Warm greige","set":{"sid":"greige","trm":"cream","fas":"bronze","win":"bronze","rof":"brown","gdc":"bronze","fd":"p"}},{"cat":"ext","name":"Black barn","set":{"sid":"black","trm":"black","fas":"black","gdc":"wood","prf":"copper","fd":"p"}},{"cat":"int","name":"Light and warm (as shown)","set":{}},{"cat":"int","name":"Warm oak","set":{"isl":"oak","ctr":"marble","flr":"honey","wal":"greige","clg":"o","cr":"f","ids":"c"}},{"cat":"int","name":"Deep and moody","set":{"cab":"navy","bsp":"grey","flr":"walnut","wal":"grey","idc":"black","clg":"b","cr":"c","vcab":"navy","shw":"slate","lof":"l"}},{"cat":"int","name":"Scandinavian","set":{"isl":"white","flr":"white","wal":"white","hwc":"black","clg":"t","ids":"f","vcab":"white","shw":"subway"}},{"cat":"int","name":"Sage kitchen","set":{"cab":"sage","isl":"oak","bsp":"green","vcab":"sage","shw":"zel","lof":"r"}},{"cat":"int","name":"Black and white","set":{"cab":"black","isl":"white","ctr":"marble","flr":"grey","wal":"white","hwc":"nickel","idc":"black","ids":"c","cr":"c","vcab":"black","shw":"subway"}},{"cat":"int","name":"Everything added","set":{"cr":"c","clg":"o","bi":"s","ids":"c","lof":"l","b":"f"}}],"plan_lead":"Each level seen from straight above, with everything over it taken away. Furniture is illustrative.","plans":[{"id":"main_f","name":"Main level","note":"2,144 sq ft: living, dining and kitchen in the core, the primary suite in its own wing, a three-car garage","svg":"<img src=\"img/plan-main_f.jpg\" alt=\"Main level, seen from above with the levels over it taken away\" style=\"width:100%;height:auto;display:block;border-radius:10px\">"},{"id":"main_s","name":"Main level, side-entry garage","note":"The same rooms; the garage wing is re-proportioned and entered from a motor court at the side","svg":"<img src=\"img/plan-main_s.jpg\" alt=\"Main level, side-entry garage, seen from above with the levels over it taken away\" style=\"width:100%;height:auto;display:block;border-radius:10px\">"},{"id":"upper","name":"Upstairs","note":"1,224 sq ft: three bedrooms, two baths, the loft and a laundry; the office loft sits over the primary closet","svg":"<img src=\"img/plan-upper.jpg\" alt=\"Upstairs, seen from above with the levels over it taken away\" style=\"width:100%;height:auto;display:block;border-radius:10px\">"},{"id":"look","name":"Lookout","note":"224 sq ft: the lookout room on the roof, windows on all four sides","svg":"<img src=\"img/plan-look.jpg\" alt=\"Lookout, seen from above with the levels over it taken away\" style=\"width:100%;height:auto;display:block;border-radius:10px\">"},{"id":"bsmt_u","name":"Lower level","note":"Unfinished, as drawn: a safe room, mechanical space and rough-ins for a bath and a wet bar","svg":"<img src=\"img/plan-bsmt_u.jpg\" alt=\"Lower level, seen from above with the levels over it taken away\" style=\"width:100%;height:auto;display:block;border-radius:10px\">"},{"id":"bsmt_f","name":"Lower level, finished","note":"Lounge, bar, gym, bath and sauna, with the safe room, storage and mechanical space","svg":"<img src=\"img/plan-bsmt_f.jpg\" alt=\"Lower level, finished, seen from above with the levels over it taken away\" style=\"width:100%;height:auto;display:block;border-radius:10px\">"}],"lot":null,"specs":[{"h":"The home","items":["3,760 sq ft finished: 2,144 on the main level, 1,224 upstairs, a 168 sq ft office loft and the 224 sq ft lookout room","Four bedrooms and three and a half baths; the primary suite is on the main level in its own wing","The primary suite: a 20 x 20 bedroom with a door to the covered deck, a spa bath and a walk-in closet, about 800 sq ft in all","Three-car garage in a wing of its own, front entry or side entry","Core 34 x 36 ft, two stories; the garage wing 32 x 24 ft and the primary wing 20 x 46 ft are one story"]},{"h":"Rooms","items":["Main level: foyer, dining room, living room with a fireplace and a 12 ft slider to the covered deck, kitchen with a prep kitchen and pantry, mudroom, powder room, laundry","Upstairs: three bedrooms, two baths, a loft, a second laundry","An office loft over the primary closet, reached by its own spiral stair","The lookout room: 14 x 16 ft on the roof, windows on all four sides"]},{"h":"Heights and roof","items":["10 ft ceilings on the main level","Gable roofs with standing-seam accents over the porch, the lookout and the garage doors","Covered 16 x 14 ft deck off the living room; covered front porch on timber posts"]},{"h":"Inside finish","items":["Living room ceiling: nine coffers centred on the fireplace with a ring chandelier, painted or in oak; timber beams or a tray ceiling instead","Doors: 8 ft on the main level and 6 ft 8 in. upstairs, in three panel styles, every opening cased with a cap over the head","Crown molding as a choice on every level, classic or craftsman","Front door in four designs under a transom: glass over a panel, steel-look glass, craftsman with sidelights, or panelled","Baths: vanity cabinets and shower walls chosen apart from the kitchen","The loft over the primary closet as a home office, a library or a retreat"]},{"h":"Outside","items":["Board-and-batten siding with trim boards at corners and openings","Black-framed windows with grids","A full basement under the core"]}],"foot":["The pictures and the design studio on this page are computer renderings of a 3D model of the plan. Furniture, planting and the land around the house are illustrative; the plan is not drawn on a particular lot.","Finishes offered in the design studio are examples for planning, not a builder's price list. A builder's plan set and contract govern."],"tour":null,"model3d":{"src":"3d/","poster":"img/hero-day.jpg"}};
